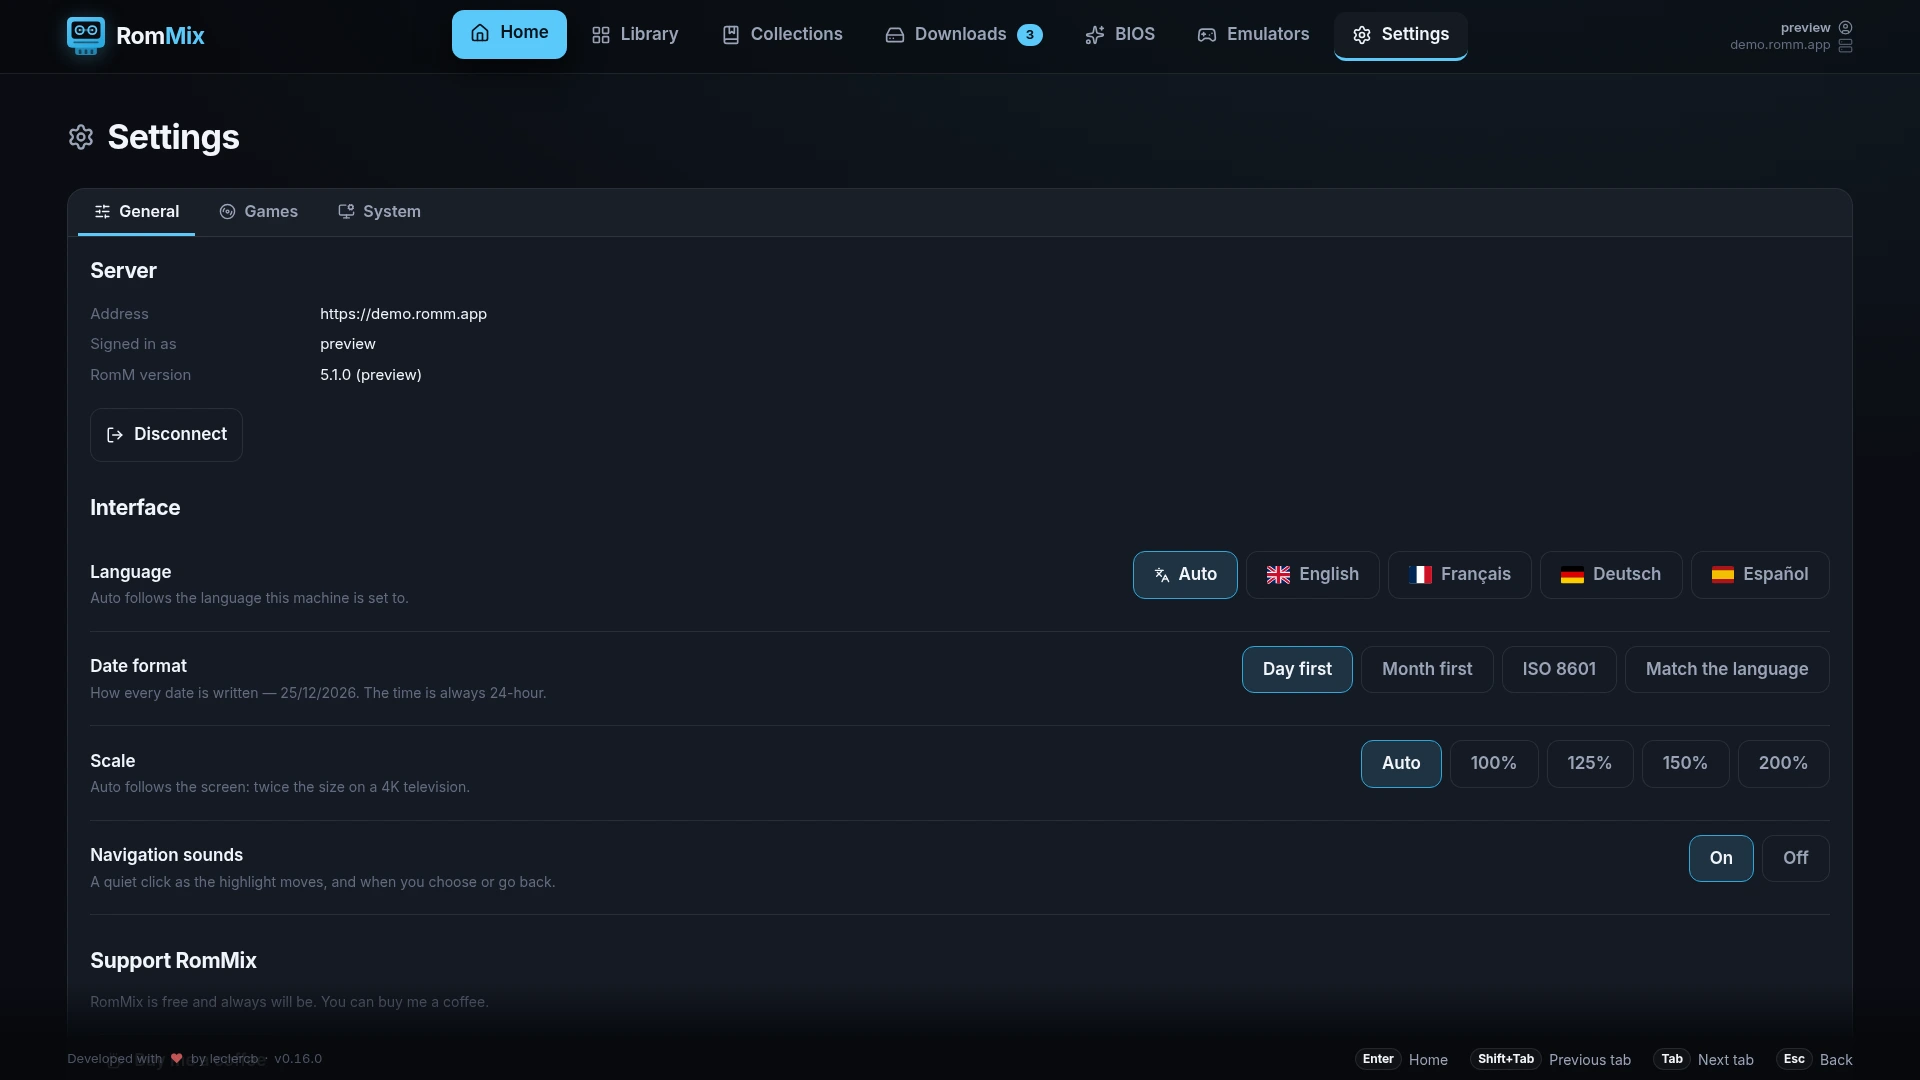
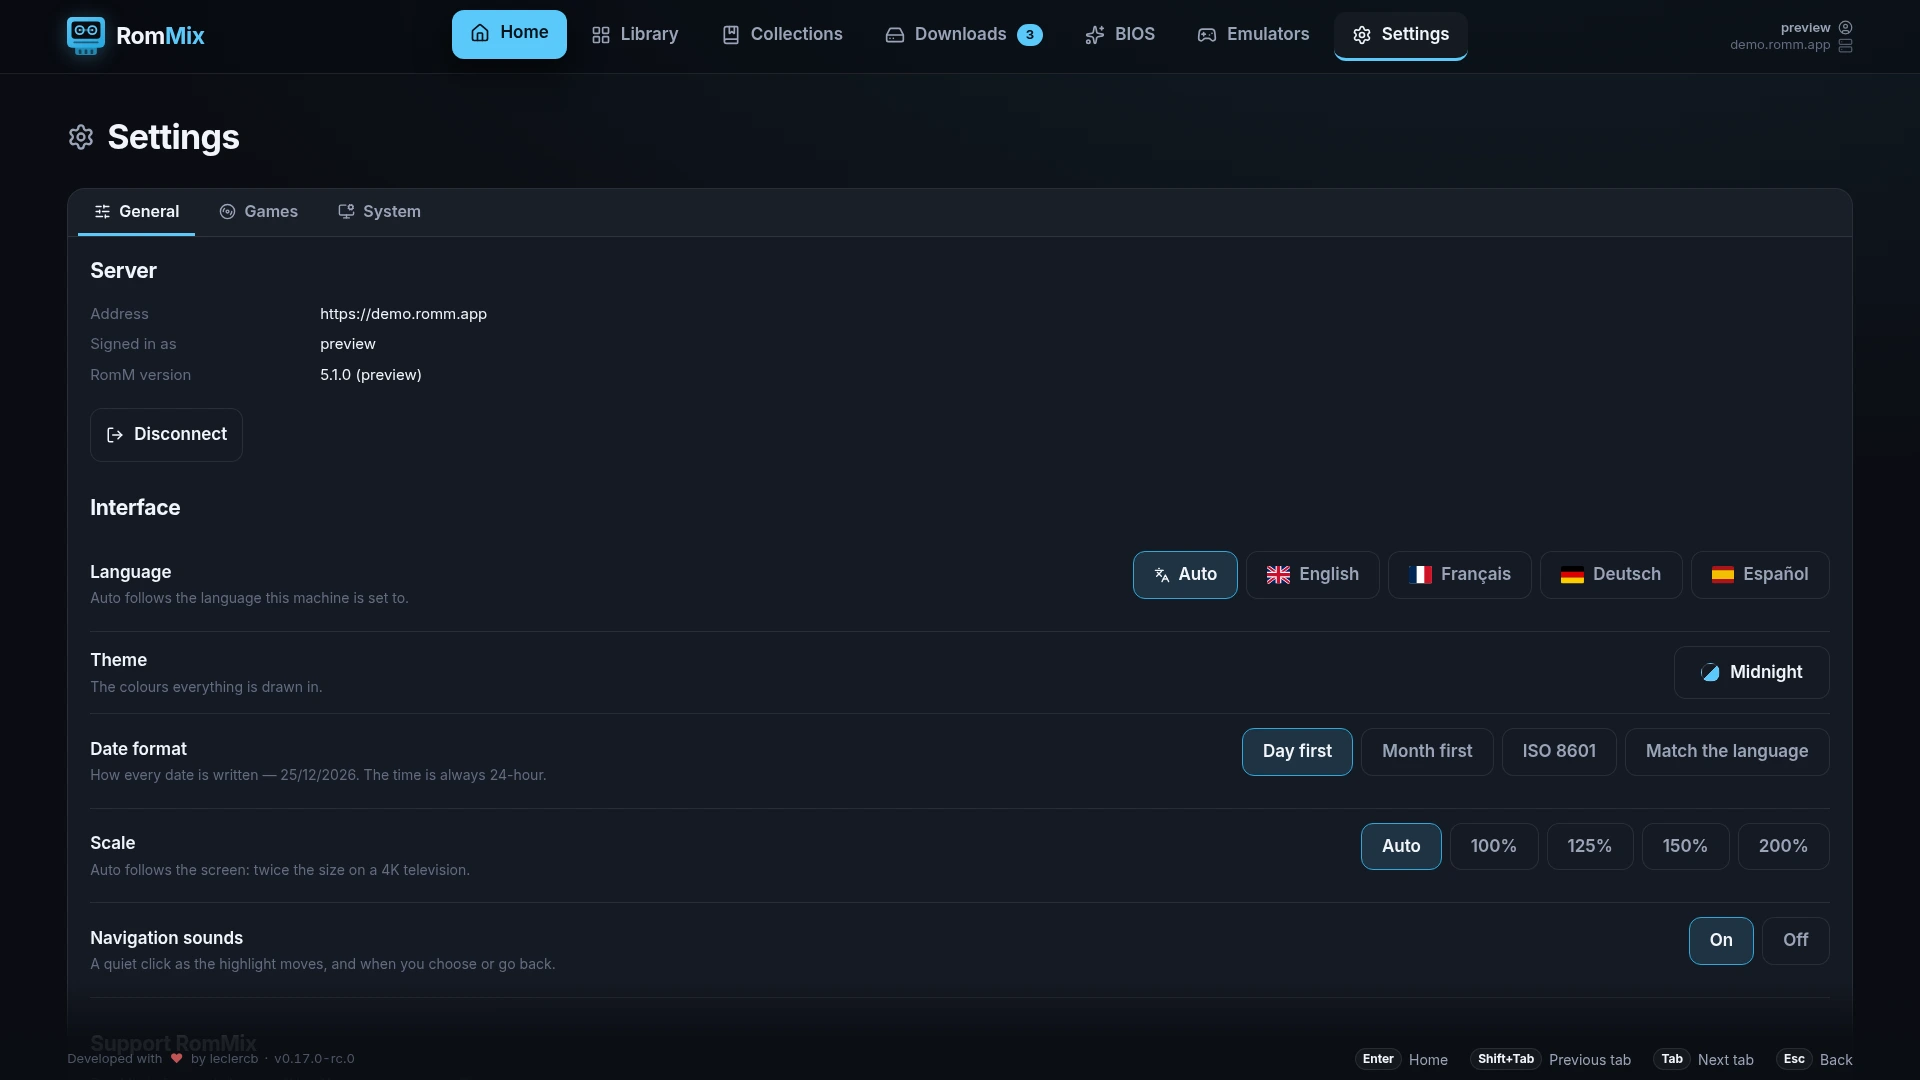
chore(release): 0.17.0-rc.0

diff --git a/CHANGELOG.md b/CHANGELOG.md
@@ -4,6 +4,17 @@ Newest first. `npm run release` adds the entry for a version, falling back to th
 commit subjects and ids since the previous tag — so write the section by hand
 before releasing if you want prose instead. See [Releasing](README.md#releasing).
 
+## 0.17.0-rc.0 — 2026-09-13
+
+- fix: apply the interface scale in the demo (a823aee)
+- fix: draw the arcade theme's scan lines as a tube would (ba5ab4a)
+- feat: open the theme picker from the notice (8a3c177)
+- test(app): seed a dismissed themes notice (1c0aff7)
+- feat: offer the machine's own power actions when quitting (7f1b1b7)
+- feat: say how much room is left where games go (3a00b9e)
+- feat: add a theme setting with nine palettes (0afd872)
+- fix: keep a dialog's heading and buttons in view (0c6addb)
+
 ## 0.16.0 — 2026-09-12
 
 - test(app): spend each direction once per standing place (8663d9a)
